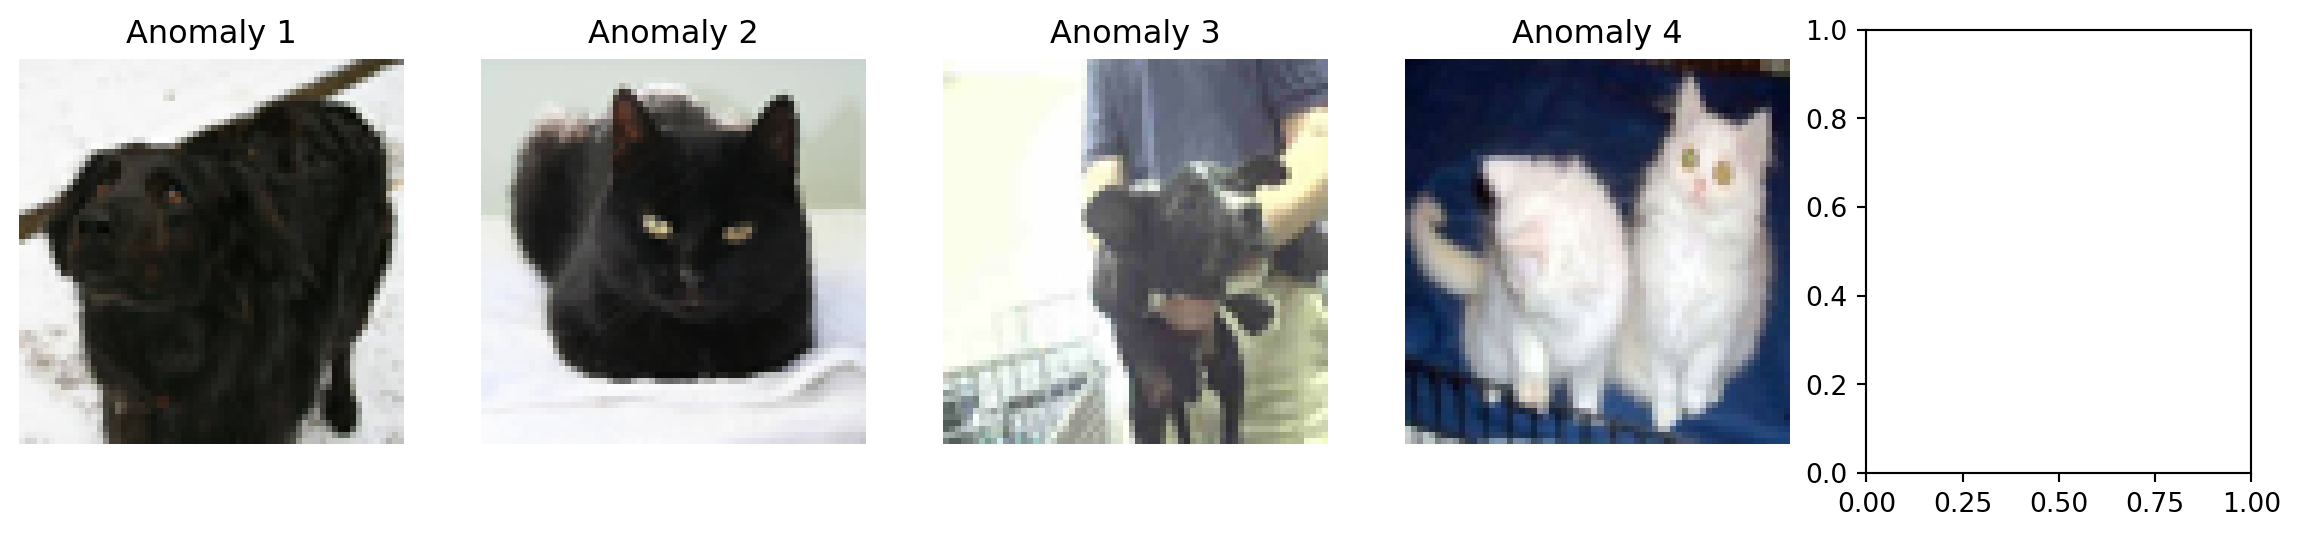
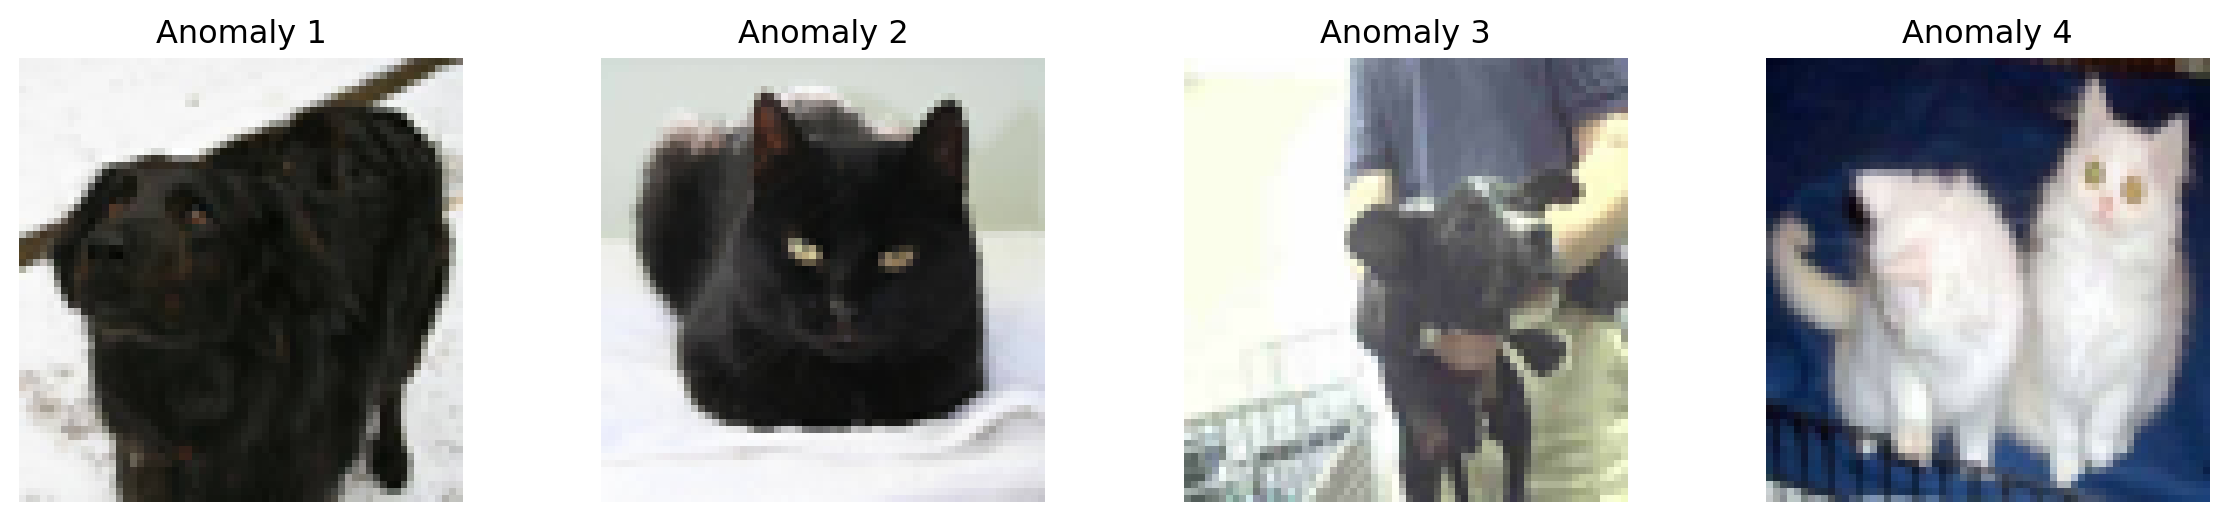
Built site for gh-pages

diff --git a/posts/outl.html b/posts/outl.html
@@ -255,7 +255,7 @@ pre > code.sourceCode > span > a:first-child::before { text-decoration: underlin
 <span id="cb4-6"><a href="#cb4-6" aria-hidden="true" tabindex="-1"></a>anomaly_indices <span class="op">=</span> np.where(anomalies <span class="op">==</span> <span class="op">-</span><span class="dv">1</span>)[<span class="dv">0</span>]</span>
 <span id="cb4-7"><a href="#cb4-7" aria-hidden="true" tabindex="-1"></a></span>
 <span id="cb4-8"><a href="#cb4-8" aria-hidden="true" tabindex="-1"></a><span class="co"># Plot some of the detected anomalies</span></span>
-<span id="cb4-9"><a href="#cb4-9" aria-hidden="true" tabindex="-1"></a>fig, axs <span class="op">=</span> plt.subplots(<span class="dv">1</span>, <span class="dv">5</span>, figsize<span class="op">=</span>(<span class="dv">15</span>, <span class="dv">3</span>))</span>
+<span id="cb4-9"><a href="#cb4-9" aria-hidden="true" tabindex="-1"></a>fig, axs <span class="op">=</span> plt.subplots(<span class="dv">1</span>, <span class="dv">4</span>, figsize<span class="op">=</span>(<span class="dv">15</span>, <span class="dv">3</span>))</span>
 <span id="cb4-10"><a href="#cb4-10" aria-hidden="true" tabindex="-1"></a><span class="cf">for</span> i, idx <span class="kw">in</span> <span class="bu">enumerate</span>(anomaly_indices[:<span class="dv">4</span>]):</span>
 <span id="cb4-11"><a href="#cb4-11" aria-hidden="true" tabindex="-1"></a>    axs[i].imshow(images[idx].reshape(<span class="dv">64</span>, <span class="dv">64</span>,<span class="dv">3</span>), cmap<span class="op">=</span><span class="st">'gray'</span>)</span>
 <span id="cb4-12"><a href="#cb4-12" aria-hidden="true" tabindex="-1"></a>    axs[i].axis(<span class="st">'off'</span>)</span>
@@ -264,7 +264,7 @@ pre > code.sourceCode > span > a:first-child::before { text-decoration: underlin
 <span id="cb4-15"><a href="#cb4-15" aria-hidden="true" tabindex="-1"></a>plt.show()</span></code><button title="Copy to Clipboard" class="code-copy-button"><i class="bi"></i></button></pre></div>
 </details>
 <div class="cell-output cell-output-display">
-<p><img src="outl_files/figure-html/cell-5-output-1.png" width="1150" height="269"></p>
+<p><img src="outl_files/figure-html/cell-5-output-1.png" width="1114" height="261"></p>
 </div>
 </div>
 <p>We can see the detection is not very good, the model seems to only capture the black and white color as the anomalies, which might not always hold true for all types of anomalies in image data.</p>
@@ -272,7 +272,7 @@ pre > code.sourceCode > span > a:first-child::before { text-decoration: underlin
 </section>
 <section id="outliers-from-hdbscan" class="level2">
 <h2 class="anchored" data-anchor-id="outliers-from-hdbscan"><span class="emoji" data-emoji="heart">❤</span> Outliers from HDBSCAN</h2>
-<p>We looked at twitter topic modeling with HDBSCAN clustering in the <a href="https://hwz531.github.io/blog/posts/clus.html#hdbscan">Clustering</a> blog. We removed outliers at the time, now let’s plot the outliers too. Cluster -1 in HDBSCAN is the collection of outliers.</p>
+<p>We looked at twitter topic modeling with HDBSCAN clustering in the <a href="https://hwz531.github.io/blog/posts/clus.html#hdbscan">Clustering</a> blog. We removed outliers at the time, now let’s plot the outliers too. Cluster -1 in HDBSCAN clusters is the collection of outliers.</p>
 <div class="cell" data-execution_count="5">
 <details>
 <summary>Code</summary>
@@ -315,7 +315,7 @@ pre > code.sourceCode > span > a:first-child::before { text-decoration: underlin
 <pre><code>Text(0.5, 1.0, 'Tweets topic t-SNE')</code></pre>
 </div>
 <div class="cell-output cell-output-display">
-<p><img src="outl_files/figure-html/cell-6-output-2.png" width="559" height="440"></p>
+<p><img src="outl_files/figure-html/cell-6-output-2.png" width="547" height="440"></p>
 </div>
 </div>
 <p>Let’s take a look at what kind of tweets are outliers</p>
@@ -339,33 +339,33 @@ pre > code.sourceCode > span > a:first-child::before { text-decoration: underlin
 </thead>
 <tbody>
 <tr class="odd">
+<td data-quarto-table-cell-role="th">0</td>
+<td>Barbara Bailey is the queen of broadcast news ...</td>
+<td>pop_culture</td>
+<td>-1</td>
+</tr>
+<tr class="even">
 <td data-quarto-table-cell-role="th">1</td>
 <td>start the 20-21 school year off POSITIVE! let’...</td>
 <td>daily_life</td>
 <td>-1</td>
 </tr>
+<tr class="odd">
+<td data-quarto-table-cell-role="th">2</td>
+<td>Worth watching at least the 1st 10mins if I wa...</td>
+<td>pop_culture</td>
+<td>-1</td>
+</tr>
 <tr class="even">
+<td data-quarto-table-cell-role="th">3</td>
+<td>There s regular people and then there s {@Bail...</td>
+<td>pop_culture</td>
+<td>-1</td>
+</tr>
+<tr class="odd">
 <td data-quarto-table-cell-role="th">4</td>
 <td>Up with new grace, truly sorry on behalf of {@...</td>
 <td>pop_culture</td>
-<td>-1</td>
-</tr>
-<tr class="odd">
-<td data-quarto-table-cell-role="th">15</td>
-<td>#VwithSudheer {@Sudheer Babu@} don t know why ...</td>
-<td>pop_culture</td>
-<td>-1</td>
-</tr>
-<tr class="even">
-<td data-quarto-table-cell-role="th">30</td>
-<td>I spoke to ESPN about the air quality issues t...</td>
-<td>sports_&amp;_gaming</td>
-<td>-1</td>
-</tr>
-<tr class="odd">
-<td data-quarto-table-cell-role="th">37</td>
-<td>Sources Re Air Quality: {@Dallas Cowboys@} (pi...</td>
-<td>sports_&amp;_gaming</td>
 <td>-1</td>
 </tr>
 </tbody>
@@ -376,7 +376,7 @@ pre > code.sourceCode > span > a:first-child::before { text-decoration: underlin
 </div>
 <section id="ref" class="level3">
 <h3 class="anchored" data-anchor-id="ref">Ref</h3>
-<p><a href="https://pyimagesearch.com/2020/01/20/intro-to-anomaly-detection-with-opencv-computer-vision-and-scikit-learn/">Isolation-forest</a> <a href="https://plotly.com/python/figure-labels/">ploty</a> <a href="https://developers.google.com/machine-learning/crash-course/classification/roc-and-auc">roc</a></p>
+<p><a href="https://pyimagesearch.com/2020/01/20/intro-to-anomaly-detection-with-opencv-computer-vision-and-scikit-learn/">Isolation-forest</a></p>
 
 
 <!-- -->

diff --git a/index.html b/index.html
@@ -165,7 +165,7 @@ ul.task-list li input[type="checkbox"] {
 
 <div class="quarto-listing quarto-listing-container-grid" id="listing-listing">
 <div class="list grid quarto-listing-cols-3">
-<div class="g-col-1" data-index="0" data-listing-file-modified-sort="1702210356840" data-listing-reading-time-sort="4">
+<div class="g-col-1" data-index="0" data-listing-file-modified-sort="1702210525155" data-listing-reading-time-sort="4">
 <a href="./posts/outl.html" class="quarto-grid-link">
 <div class="quarto-grid-item card h-100 card-left">
 <p class="card-img-top"><img src="https://media.wired.com/photos/593231525c4fbd732b551239/master/w_1600,c_limit/cat_captcha.png" style="height: 150px;"  class="thumbnail-image card-img"/></p>
